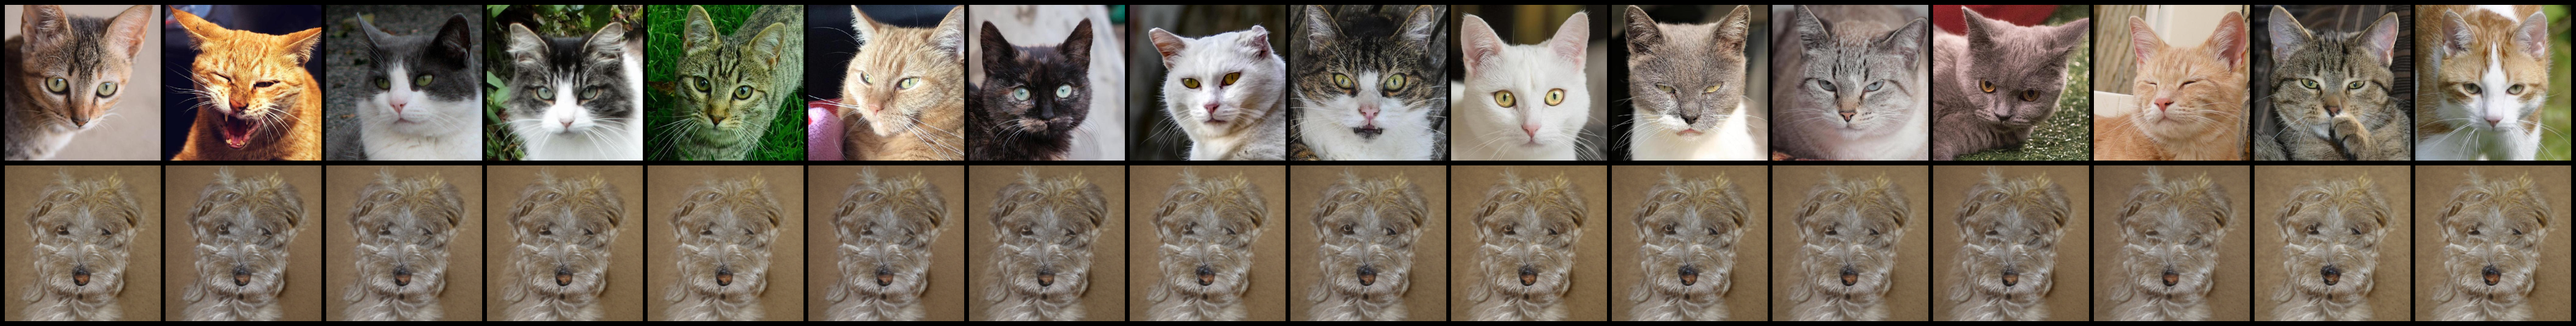
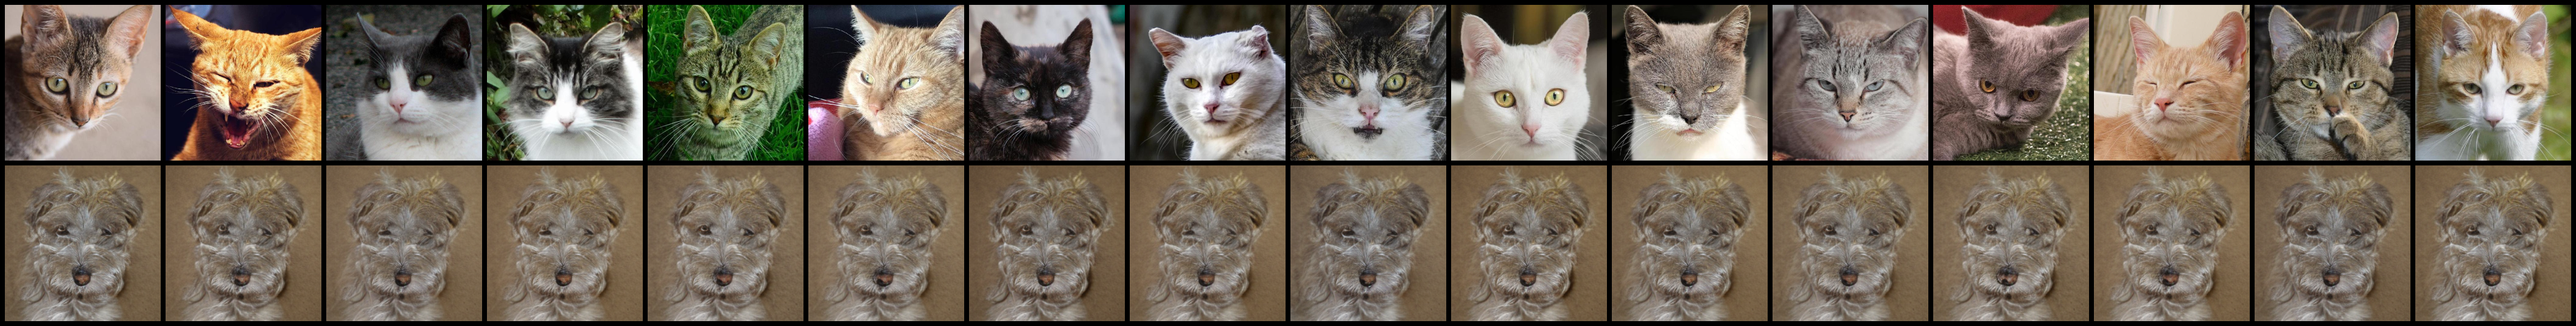
done

Changed region(s): [[0.8733, 0.5672, 0.9357, 0.806], [0.7486, 0.8358, 0.7798, 0.8657], [0.4991, 0.7164, 0.5302, 0.7463]]

diff --git a/infoot/infoot_fit.py b/infoot/infoot_fit.py
@@ -30,7 +30,7 @@ with torch.no_grad():
     solver = infoot.FusedInfoOT(
         Xs, Xt, h=args.h, reg=args.reg,lam=args.lam,
     )
-    P = solver.solve(numIter=1200, verbose=True)
+    P = solver.solve(numIter=100, verbose=True)
 
 infoot.save_plan(bank_dir / "cat_to_dog_plan.pt", P, args.h, args.reg, args.lam)
 print("Transport plan:", P.shape)
